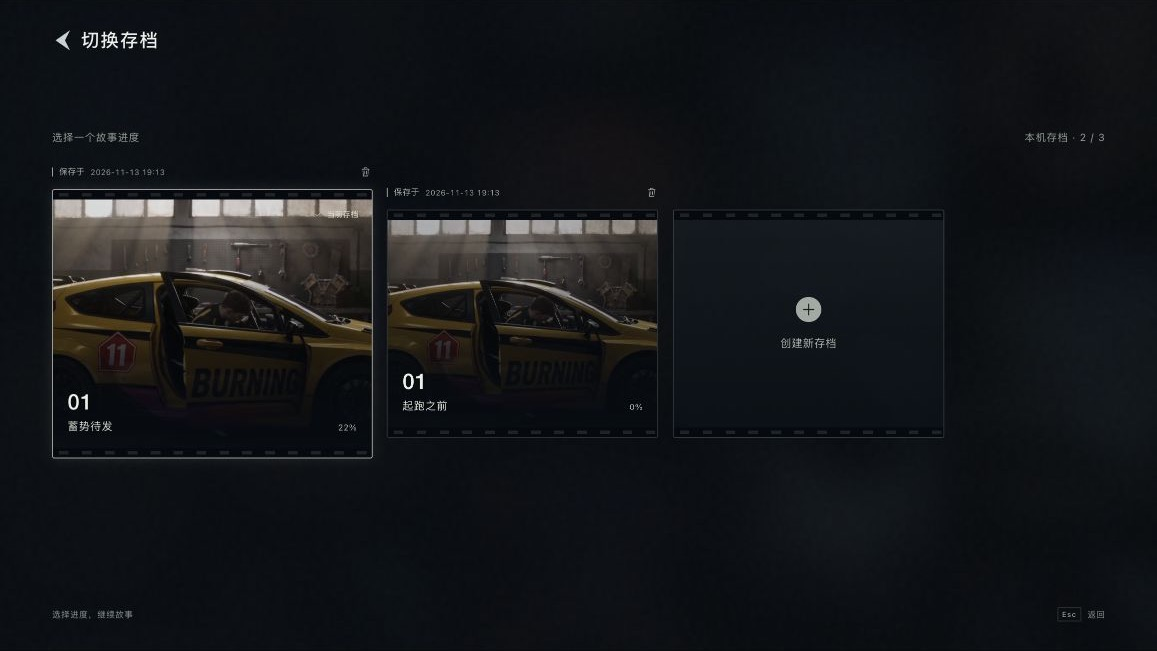
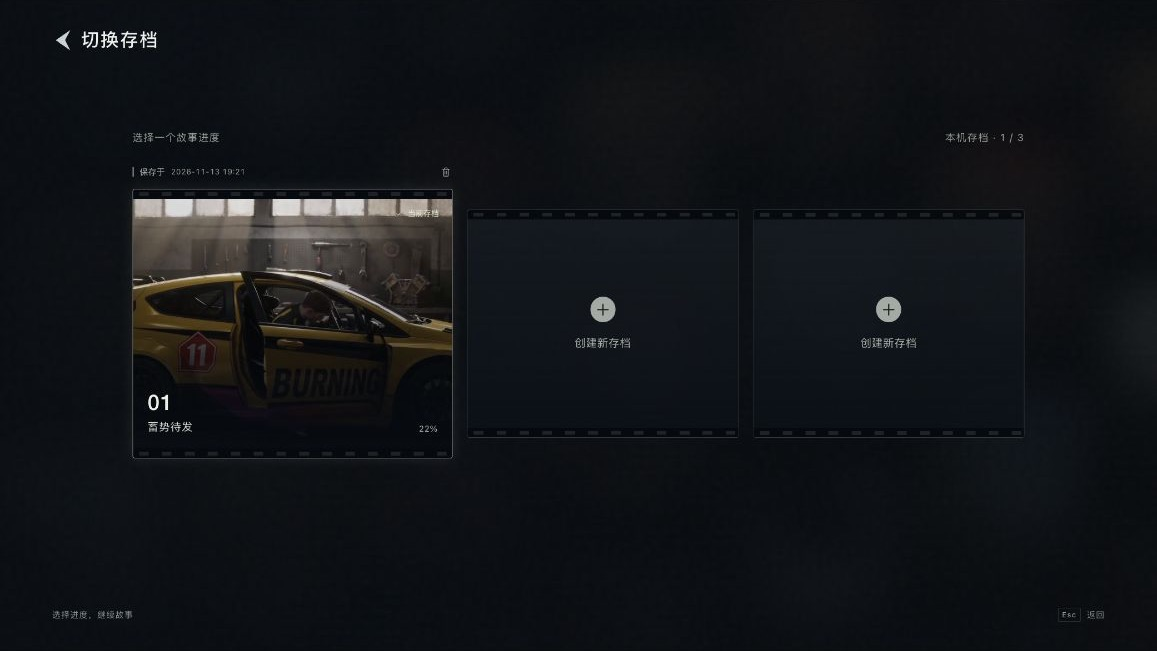
Center the save card group and its metadata

diff --git a/compare.html b/compare.html
@@ -1,4 +1,4 @@
-<!doctype html><html lang="zh-CN"><head><meta charset="utf-8"><meta name="viewport" content="width=device-width,initial-scale=1"><title>Yoroll 游戏 UI · 改版对比与比例方案</title><link rel="icon" href="wall/assets/yoroll-icon.svg"><link rel="stylesheet" href="compare.css?v=saves-card-hierarchy-20261113"></head>
+<!doctype html><html lang="zh-CN"><head><meta charset="utf-8"><meta name="viewport" content="width=device-width,initial-scale=1"><title>Yoroll 游戏 UI · 改版对比与比例方案</title><link rel="icon" href="wall/assets/yoroll-icon.svg"><link rel="stylesheet" href="compare.css?v=saves-centered-20261113"></head>
 <body><header class="report-header"><a class="brand" href="index.html"><img src="assets/yoroll-logo.png" alt="yoroll"></a><div><span>UI / MOTION STUDY</span><h1>更克制的比例，更连贯的节奏。</h1></div><a id="open-prototype" class="primary-link" href="index.html?page=home" target="_blank">打开交互原型 ↗</a></header>
 <div class="scope"><i></i><span>本地交互方案</span><span>14 个页面 / 状态</span><span>16:9 横版</span><span>未修改线上 Unity 游戏</span></div>
 <main class="report-layout"><aside class="page-sidebar"><div class="sidebar-title">逐页对比</div><nav id="page-list"></nav><a href="#proportions">比例调整方案 ↓</a><a href="#handoff">动效与交付说明 ↓</a></aside><article><section class="comparison-section"><div class="page-heading"><div><span id="page-kind" class="eyebrow"></span><h2 id="page-name"></h2></div><div class="page-switch"><button id="prev" aria-label="上一页">←</button><span id="page-count"></span><button id="next" aria-label="下一页">→</button></div></div>
@@ -6,4 +6,4 @@
 <div id="comparison" class="comparison fit-stage" data-mode="wipe"><div class="still-stage"><div class="before-layer"><img id="before-image" alt="修改前截图"><div id="no-before" class="no-before" hidden><span>—</span><h3>没有对应原版截图</h3><p id="before-note"></p></div><span class="picture-label before-label">原版</span></div><div class="after-layer" id="after-layer"><img id="after-image" alt="修改后截图"><span class="picture-label after-label">新版</span></div><div id="wipe-handle" class="wipe-handle"><span>↔</span></div><div class="safe-area" aria-hidden="true"><span>4.5% 水平安全区</span></div></div><div class="motion-stage" hidden><iframe id="motion-frame" title="页面动效预览"></iframe><div class="safe-area" aria-hidden="true"><span>4.5% 水平安全区</span></div></div></div>
 <div id="slider-row" class="slider-row"><span>新版更多</span><input id="wipe-slider" type="range" min="0" max="100" value="50" aria-label="新旧画面分割位置"><span>原版更多</span></div><p id="image-note" class="image-note"></p><div class="change-summary"><div><h3>布局与层级</h3><p id="change"></p></div><div><h3>比例</h3><p id="ratio"></p></div><div><h3>动效与操作</h3><p id="motion"></p><p id="interaction"></p></div></div></section>
 <section id="proportions" class="spec-section"><div class="section-heading"><span class="eyebrow">PROPORTION SYSTEM</span><h2>分别调整层级，建立统一的尺寸体系。</h2><p>以下均以 1920×1080 为设计基准。实际预览按画幅等比缩放，保持 16:9；水平安全区为画面宽度的 4.5%。原版数值来自截图估测。</p></div><div class="table-scroll"><table><thead><tr><th>项目</th><th>原版 · 约</th><th>新版</th><th>变化</th><th>调整目的</th></tr></thead><tbody id="proportion-table"></tbody></table></div><div class="principles"><div><span>01</span><h3>让场景成为主体</h3><p>减少全屏灰白覆盖和重高光。菜单、设置、弹窗用暗色虚化与局部明暗建立前后层次。</p></div><div><span>02</span><h3>控制视觉重量</h3><p>正文、辅助数值、主操作分别定标。保留大结果标题，收紧表单标签与导航控件。</p></div><div><span>03</span><h3>统一反馈语言</h3><p>细描边、短位移、柔和减速。悬停、按下、选中、取消与退出都给出明确回应。</p></div></div></section>
-<section id="handoff" class="spec-section"><div class="section-heading"><span class="eyebrow">MOTION SYSTEM</span><h2>一套进出场节奏，覆盖每个页面。</h2><p>页面退出 150ms，新页标题先入场，内容以 42–70ms 错峰，主体在约 0.8–1.1s 内落位。背景与封面 Logo 使用更长的缓慢收尾。</p></div><div class="motion-grid"><div><h3>常规入场</h3><strong>560–760<span> ms</span></strong><p>缓动 cubic-bezier(.16, 1, .3, 1)<br>上下位移约 8–24px，以设计基准计</p></div><div><h3>背景推近</h3><strong>3.6<span> s</span></strong><p>起止速度与加速度均为零<br>封面 100% → 103.5%，结束后停留</p></div><div><h3>确认弹窗</h3><strong>420<span> ms</span></strong><p>遮罩先淡入，弹窗轻浮落位<br>退出 150ms，取消后恢复焦点</p></div></div><div class="check-row"><span>✓ 页面切换</span><span>✓ 悬停 / 按下</span><span>✓ 键盘操作</span><span>✓ 弹窗焦点</span><span>✓ 减少动态效果适配</span><span>✓ 所有页面可重播</span><span>✓ Hover / 点击 / 切页音效</span></div><div class="file-links"><a href="design-tokens.json" download>下载尺寸与颜色参数</a><a href="motion-spec.json" download>下载逐页动效参数</a><a href="sound-spec.json" download>下载界面音效参数</a><a href="implementation-notes.txt" download>下载落地说明</a><a href="https://preview.game.yoroll.ai/?config=Race&test=1&lang=zh" target="_blank">查看原始预览 ↗</a></div><details open><summary>范围、素材与验证说明</summary><ul id="scope-notes"></ul><p>已检查主菜单、章节与剧情树导航；设置数值与语言下拉；新建存档和确认 / 取消；限时选择暂停计时；选择 → QTE → 结果链路；结果计至 100%。所有页面 / 状态均已保存本地截图。</p></details></section><footer class="report-footer">YOROLL · UI & MOTION EXPLORATION <span>2026.11.11 · 本地方案</span></footer></article></main><script src="report-data.js?v=saves-card-hierarchy-20261113"></script><script src="compare.js?v=saves-card-hierarchy-20261113"></script></body></html>
+<section id="handoff" class="spec-section"><div class="section-heading"><span class="eyebrow">MOTION SYSTEM</span><h2>一套进出场节奏，覆盖每个页面。</h2><p>页面退出 150ms，新页标题先入场，内容以 42–70ms 错峰，主体在约 0.8–1.1s 内落位。背景与封面 Logo 使用更长的缓慢收尾。</p></div><div class="motion-grid"><div><h3>常规入场</h3><strong>560–760<span> ms</span></strong><p>缓动 cubic-bezier(.16, 1, .3, 1)<br>上下位移约 8–24px，以设计基准计</p></div><div><h3>背景推近</h3><strong>3.6<span> s</span></strong><p>起止速度与加速度均为零<br>封面 100% → 103.5%，结束后停留</p></div><div><h3>确认弹窗</h3><strong>420<span> ms</span></strong><p>遮罩先淡入，弹窗轻浮落位<br>退出 150ms，取消后恢复焦点</p></div></div><div class="check-row"><span>✓ 页面切换</span><span>✓ 悬停 / 按下</span><span>✓ 键盘操作</span><span>✓ 弹窗焦点</span><span>✓ 减少动态效果适配</span><span>✓ 所有页面可重播</span><span>✓ Hover / 点击 / 切页音效</span></div><div class="file-links"><a href="design-tokens.json" download>下载尺寸与颜色参数</a><a href="motion-spec.json" download>下载逐页动效参数</a><a href="sound-spec.json" download>下载界面音效参数</a><a href="implementation-notes.txt" download>下载落地说明</a><a href="https://preview.game.yoroll.ai/?config=Race&test=1&lang=zh" target="_blank">查看原始预览 ↗</a></div><details open><summary>范围、素材与验证说明</summary><ul id="scope-notes"></ul><p>已检查主菜单、章节与剧情树导航；设置数值与语言下拉；新建存档和确认 / 取消；限时选择暂停计时；选择 → QTE → 结果链路；结果计至 100%。所有页面 / 状态均已保存本地截图。</p></details></section><footer class="report-footer">YOROLL · UI & MOTION EXPLORATION <span>2026.11.11 · 本地方案</span></footer></article></main><script src="report-data.js?v=saves-centered-20261113"></script><script src="compare.js?v=saves-centered-20261113"></script></body></html>

diff --git a/compare.js b/compare.js
@@ -15,7 +15,7 @@ function updatePage(){
  $('#page-kind').textContent=page.kind;
  $('#page-count').textContent=`${String(index+1).padStart(2,'0')} / ${pages.length}`;
  $('#change').textContent=page.change;$('#ratio').textContent=page.ratio;$('#motion').textContent=page.motion;$('#interaction').textContent=page.interaction;
- $('#after-image').src=`comparison/after/${page.id}.jpg?v=saves-card-hierarchy-20261113`;
+ $('#after-image').src=`comparison/after/${page.id}.jpg?v=saves-centered-20261113`;
  $('#after-image').alt=page.name+'修改后';
  $('#before-image').hidden=!page.before;
  $('#no-before').hidden=Boolean(page.before);
@@ -23,12 +23,12 @@ function updatePage(){
  else $('#before-image').removeAttribute('src');
  $('#before-note').textContent=page.kind==='沿用已定方案'?'沿用本聊天之前已确认的封面构图与素材。':'该状态未在这次线上预览中观察到。新版提供可操作的补充动效示例。';
  $('#image-note').textContent=mode==='motion'?'当前为可操作的实时动效。页面内可以继续导航，点击重播可回到所选页面。':page.before?'原版来自线上实际截图；新版为本地浏览器截图。底图部分不同，对比重点为 UI 占比、层级与位置。':'左侧保留来源说明；右侧展示本轮方案。点击「播放动效」体验完整入场。';
- $('#open-prototype').href=`index.html?page=${page.id}&revision=saves-card-hierarchy-20261113`;
+ $('#open-prototype').href=`index.html?page=${page.id}&revision=saves-centered-20261113`;
  document.querySelectorAll('[data-page]').forEach(button=>{if(button.dataset.page===page.id)button.setAttribute('aria-current','page');else button.removeAttribute('aria-current');});
  history.replaceState(null,'','#'+page.id);
  if(mode==='motion')loadMotion();
 }
-function loadMotion(){const page=pages[index];$('#motion-frame').src=`index.html?page=${page.id}&capture=1&revision=saves-card-hierarchy-20261113&replay=${++replay}`;}
+function loadMotion(){const page=pages[index];$('#motion-frame').src=`index.html?page=${page.id}&capture=1&revision=saves-centered-20261113&replay=${++replay}`;}
 function setMode(value){
  mode=value;$('#comparison').dataset.mode=mode;
  document.querySelectorAll('button[data-mode]').forEach(button=>button.setAttribute('aria-pressed',String(button.dataset.mode===mode)));

diff --git a/report-data.js b/report-data.js
@@ -66,13 +66,14 @@ window.YOROLL_REPORT = {
       "name": "切换存档",
       "before": "07-saves.jpg",
       "kind": "原版实拍 · 2026-11-13",
-      "change": "当前存档比其他卡片大约 18%，配合细亮边和微光形成主次；移除重复的底部「选择存档」按钮，直接点击卡片确认切换。保留胶片边缘、保存时间、删除入口与圆形加号，SAVE FILES 及短线保持移除。",
-      "ratio": "三张卡片共用原有 1480px 行宽和 24px 间距；以 1920×1080 为基准，当前卡片约 531×448px，其余约 450×380px。字号保持当前设置。",
+      "change": "三张卡片及保存信息作为一组水平居中。当前存档比其他卡片大约 18%，配合细亮边和微光形成主次；移除重复的底部「选择存档」按钮，直接点击卡片确认切换。保留胶片边缘、保存时间、删除入口与圆形加号，SAVE FILES 及短线保持移除。",
+      "ratio": "三张卡片共用原有 1480px 行宽和 24px 间距；以 1920×1080 为基准，当前卡片约 531×448px，其余约 450×380px。字号保持当前设置。 整行以画面中心定位。",
       "motion": "整行以 65ms 间隔、650ms 时长入场。确认切换后，卡片在原位置以 650ms 平滑交接大小，当前标记以 300ms 淡入淡出，页面不重新入场。",
       "interaction": "直接点击已有卡片确认切换；空档位可创建新存档。当前卡片、可访问选中状态与标记同步更新，取消确认保留现有选择。",
       "referenceUrl": "https://preview.game.yoroll.ai/?config=Race&test=1&lang=zh",
       "referenceRevision": "saves-reference-20261113",
-      "selectionRevision": "saves-card-hierarchy-20261113"
+      "selectionRevision": "saves-card-hierarchy-20261113",
+      "layoutRevision": "saves-centered-20261113"
     },
     {
       "id": "settings",

diff --git a/index.html b/index.html
@@ -6,7 +6,7 @@
   <meta name="theme-color" content="#0a0d0e">
   <title>Yoroll · 游戏 UI 动效改版</title>
   <link rel="icon" href="wall/assets/yoroll-icon.svg">
-  <link rel="stylesheet" href="style.css?v=saves-card-hierarchy-20261113">
+  <link rel="stylesheet" href="style.css?v=saves-centered-20261113">
   <link rel="preload" as="fetch" href="assets/audio/home-opening.wav?v=opening-fade-20261111" crossorigin="anonymous">
 </head>
 <body>

diff --git a/style.css b/style.css
@@ -119,6 +119,7 @@
 
 /* The current save grows within the existing three-slot row. */
 .game-frame[data-page="saves"]{overflow:clip}
+.saves-layout{left:50%;right:auto;width:min(calc(100% - var(--safe)*2),calc(var(--p)*1480));translate:-50% 0}
 .saves-grid{display:flex;align-items:center}
 .save-shell{display:flex;flex-direction:column;flex:1 1 0;min-width:0;transition:flex-grow .65s var(--ease)}
 .save-shell.is-active{flex-grow:1.18}
